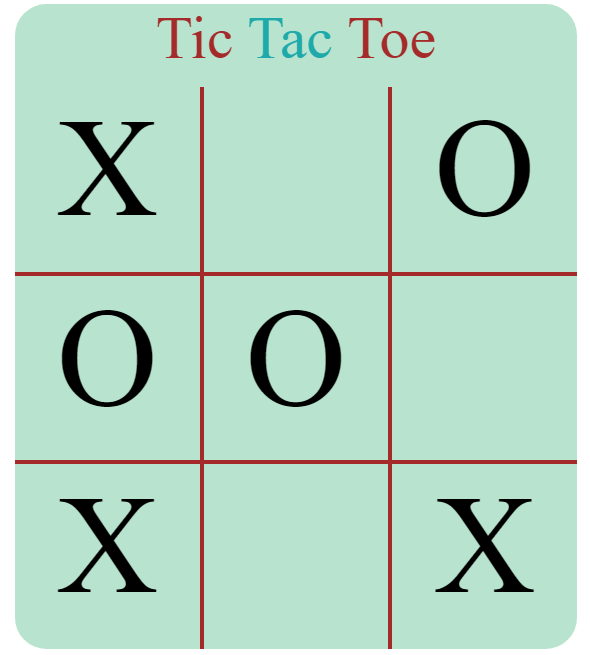
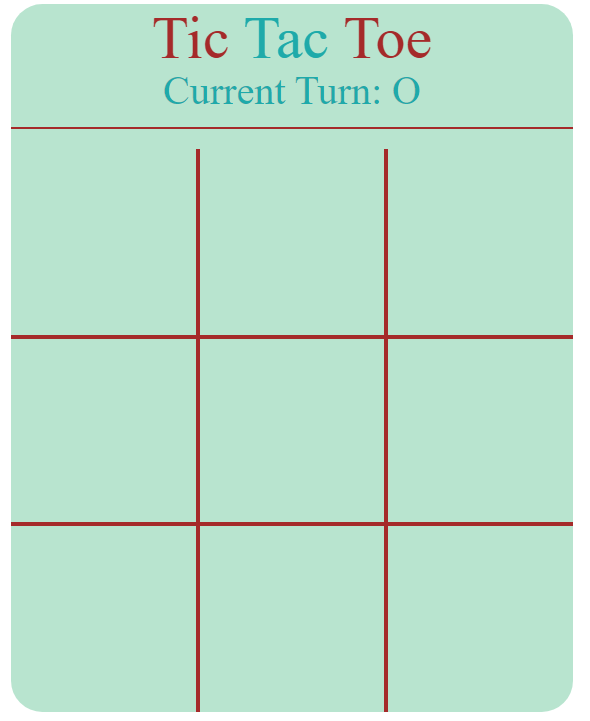
Added current turn informative message

diff --git a/style.css b/style.css
@@ -18,7 +18,7 @@
     right: 0;
     bottom: 0;
     background-color: rgba(0,0,0,0.9);
-    display: flex;
+    display: none;
     flex-direction: column;
     justify-content: center;
     align-items: center;
@@ -62,17 +62,24 @@
     align-content: stretch;
     width:450px;
     grid-template-columns: repeat(3, 150px);
-    grid-template-rows: minmax(50,auto) repeat(4, 150px);
+    grid-template-rows: minmax(50,auto) repeat(5, 150px);
 }
 
-#board_title{
+#boardtitle{
     font-size: 3rem;
     grid-column: 1 / -1;
     height: 50px;
     width: 450px;
-    margin-bottom: 1rem;
 }
 
+#currentTurn{
+    font-size: 2rem;
+    grid-column: 1 / -1;
+    height: 50px;
+    width: 450px;
+    border-bottom: 2px solid brown;
+    margin-bottom: 1rem;
+}
 .cell{
     border: 2px solid brown;
     width: 150px;
@@ -82,16 +89,16 @@
     font-style: bold;
 }
 
-.cell:nth-child(2), .cell:nth-child(3), .cell:nth-child(4){
+.cell:nth-child(3), .cell:nth-child(4), .cell:nth-child(5){
     border-top: none;
 }
-.cell:nth-child(3n+2){
+.cell:nth-child(3n){
     border-left: none;
 }
-.cell:nth-child(3n+1){
+.cell:nth-child(3n+2){
     border-right: none;
 }
 
-.cell:nth-child(8), .cell:nth-child(9), .cell:nth-child(10){
+.cell:nth-child(9), .cell:nth-child(10), .cell:nth-child(11){
     border-bottom: none;
 }

diff --git a/script.js b/script.js
@@ -20,6 +20,8 @@ class Board{
                 xIsNext = true;
             }
         filledCells++;
+        if (xIsNext) currentTurn.textContent = "Current Turn: X";
+        else currentTurn.textContent = "Current Turn: O";
     }
 
     getWinner(){
@@ -82,6 +84,7 @@ const cellTextElement = document.querySelectorAll('.cell');
 const overlayButton = document.querySelector('#overlayButton');
 const overlay = document.querySelector('#overlay');
 const overlayText = document.querySelector("#overlayText");
+const currentTurn = document.querySelector("#currentTurn");
 
 const board = new Board(cellTextElement);
 

diff --git a/index.html b/index.html
@@ -15,7 +15,8 @@
     </div>
     <div id="container">
         <div class="board">
-        <div id="board_title" style="color: brown;"> Tic <span style="color: rgb(30, 170, 170);">Tac</span> Toe</div>
+        <div id="boardtitle" style="color: brown;"> Tic <span style="color: rgb(30, 170, 170);">Tac</span> Toe</div>
+        <div id="currentTurn" style="color: rgb(30, 170, 170);">Current Turn: X</div>
             <div class="cell"></div>
             <div class="cell"></div>
             <div class="cell"></div>
